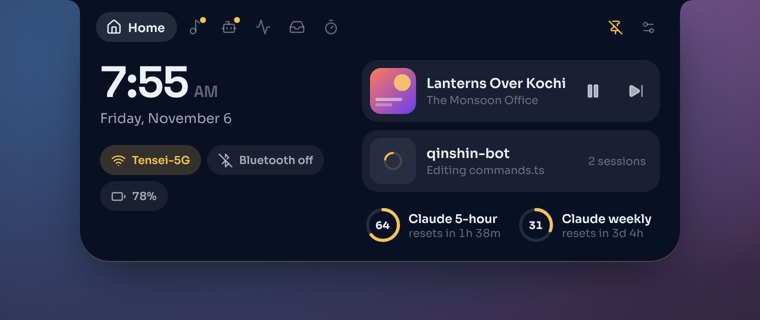
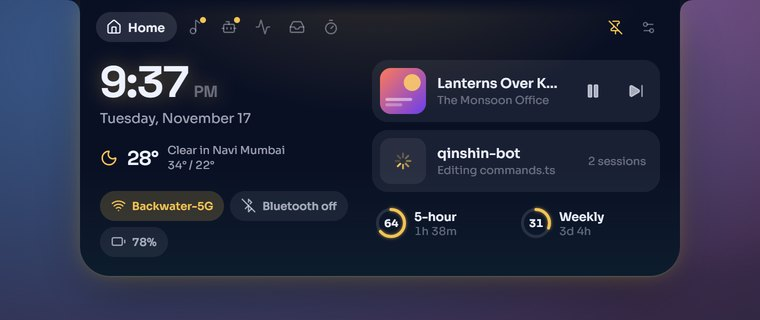
Docs: theme looks in the README, ARCHITECTURE and STATUS; screenshots retaken
The Arena and Sakura shots and Settings, Look (whose swatches now show each theme's surface) are
retaken, and the README shows six themes' Music page (27-themes.jpg).

diff --git a/STATUS.md b/STATUS.md
@@ -51,7 +51,7 @@ Legend: ✅ written and checked as far as possible here · 🧪 needs a first ru
 | Shelf | Drag files back out of the shelf | ⬜ |
 | Shelf | Clipboard history (text, private copies skipped), quick note | ✅ 🧪 |
 | Widgets | Focus timer, weather (Open-Meteo + city search), Wi-Fi / Bluetooth toggles + SSID | ✅ 🧪 |
-| Look | 15 themes + custom theme editor, 13 bundled fonts, motion presets, size | ✅ (browser) |
+| Look | 15 themes, each with its own look (surface light and texture, edge glow, play button and bar, italic display type, motion feel), custom theme editor, 13 bundled fonts, motion presets, size | ✅ (browser); looks checked in the app: no measurable CPU at rest or with the spinner |
 | Build | GitHub Actions: check, clippy, test, NSIS installer + portable exe, release on `v*` tag with notes from `docs/releases/<tag>.md` | ✅ green on main and branches (~20 min) |
 | Build | Installer: Tauri's NSIS template plus an options page (start with Windows, Start menu, desktop), branded sidebar and header | ✅ compiles; pages 🧪 |
 | Perf | Looping decorations on a shared 8 fps beat; Graphics setting (hardware or software) | ✅ measured, see log |

diff --git a/docs/ARCHITECTURE.md b/docs/ARCHITECTURE.md
@@ -40,7 +40,13 @@ Pear Desktop and LRCLIB / Open-Meteo are reached from the frontend with fetch/We
   Marquees slide out and back once, then rest.
 - Settings → General → Graphics: software compositing (`--disable-gpu`) drops the GPU process, ~120 MB
   private memory instead of ~185 MB, for ~40% more CPU during an open/close morph.
-- Fonts: Latin subsets only (~390 KB total), bundled, no network.
+- Theme looks (`LOOKS` in `themes.ts`) are static paint: gradients, a grain tile and box-shadows drawn once,
+  glows on rings and sparklines as SVG filters painted with the shape. No CSS `filter` on HTML elements, which the
+  compositor would redo on every frame the island repaints, and no looping motion; a theme's feel only shapes
+  the open/close spring. Measured in the app with Software graphics: the same CPU as without looks, at rest and
+  with the agent spinner.
+- Fonts: Latin subsets only (~460 KB total, with the italic Fraunces and Instrument Serif for theme looks),
+  bundled, no network.
 
 ## Island states
 

diff --git a/README.md b/README.md
@@ -108,7 +108,13 @@ opens while you're dragging something, never steals focus, and respects Windows'
 ### Make it yours
 
 Choose a Notch, Pill or Line shape, one of 15 themes or your own, 13 typefaces, and springy, smooth or minimal
-motion.
+motion. Each theme has a look of its own, not just its colours: Synthwave glows neon over faint scanlines, Nord
+carries an aurora, Editorial sits in candlelight on paper grain, Sakura is soft and round, and each one moves in
+its own way when the island opens.
+
+<p align="center">
+  <img src="docs/screenshots/27-themes.jpg" width="620" alt="The Music page in six themes: Synthwave, Sakura, Editorial, Nord, Gruvbox and Tokyo Night">
+</p>
 
 <p align="center">
   <img src="docs/screenshots/settings-look.jpg" width="620" alt="Settings, Look: shapes, themes and typefaces">
